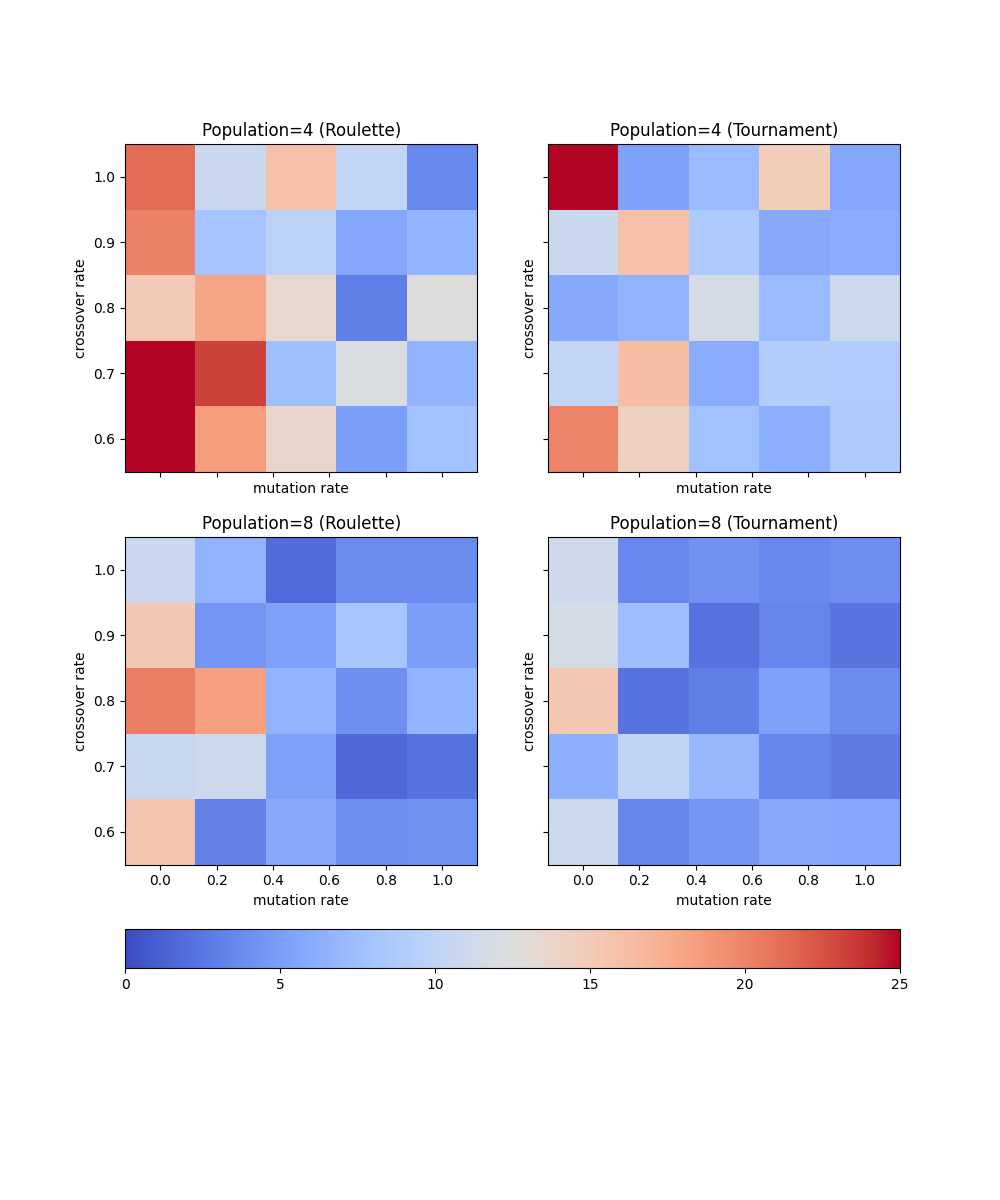
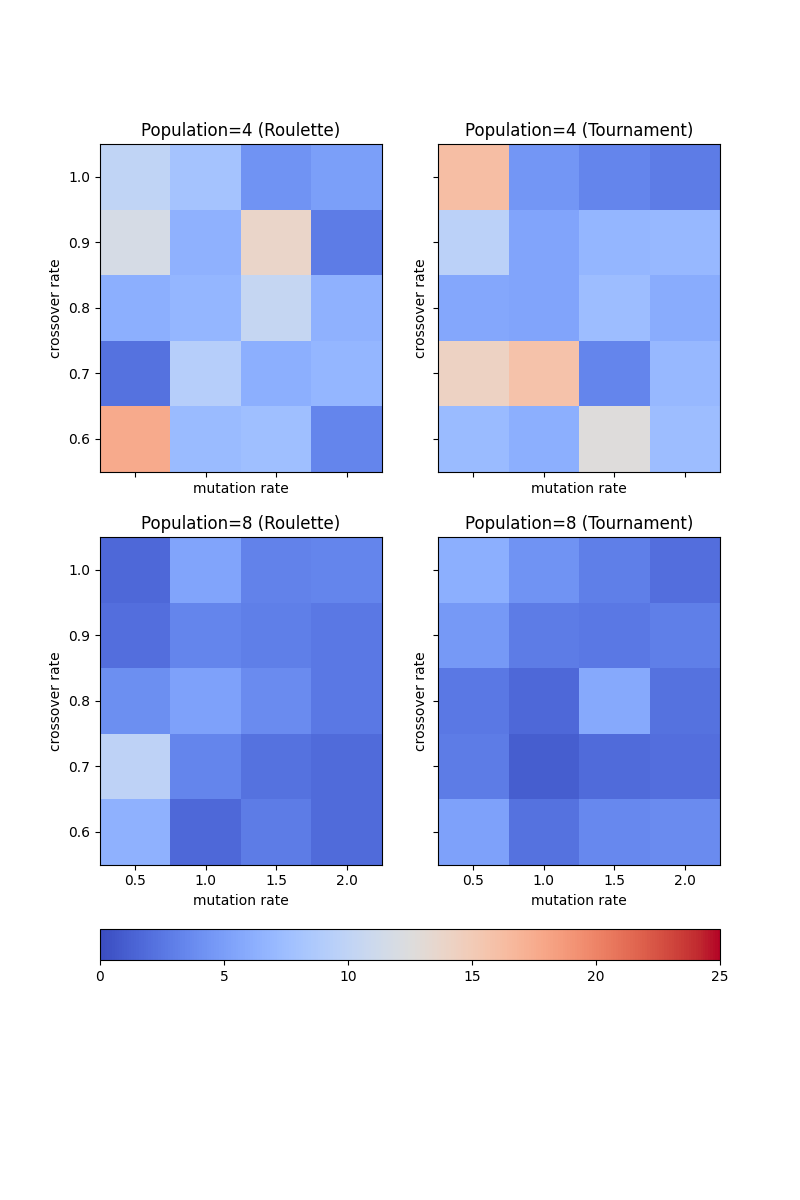
Ajustadas taxas de mutação.

Changed region(s): [[0.0625, 0.0925, 0.9062, 0.7708], [0.125, 0.8017, 0.9062, 0.8325], [0.375, 0.6475, 0.5, 0.74]]

diff --git a/sim_and_plots.py b/sim_and_plots.py
@@ -4,7 +4,7 @@ import numpy as np
 from statistics import mean
 
 r_cross_opts = (0.6, 0.7, 0.8, 0.9, 1)
-r_mut_opts = (0, 0.25, 0.5, 0.75, 1)
+r_mut_opts = (0.5, 1, 1.5, 2)
 results_pop_4_roulette = list()
 results_pop_4_tournament = list()
 results_pop_8_roulette = list()
@@ -34,7 +34,7 @@ def plot_colormesh(name, func, vmax = 25):
   calc_z = lambda results: np.array([[func([len(sim_result[2]) for sim_result in col]) for col in row] for row in results])
   fig, ax = plt.subplots(2, 2, sharex=True, sharey=True)
 
-  fig.set_figwidth(10)
+  fig.set_figwidth(8)
   fig.set_figheight(12)
 
   meshopts = {'cmap': 'coolwarm', 'vmin': 0, 'vmax': vmax}
